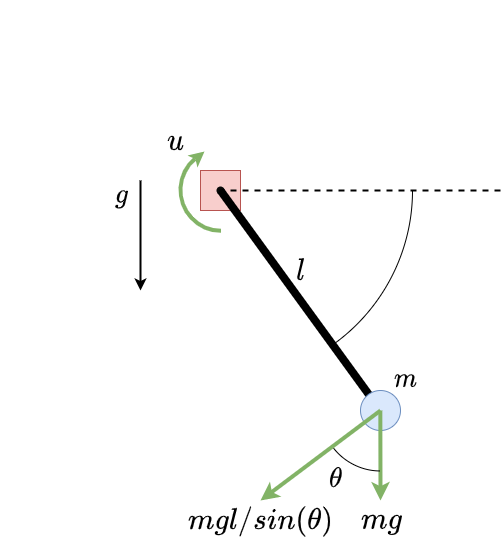
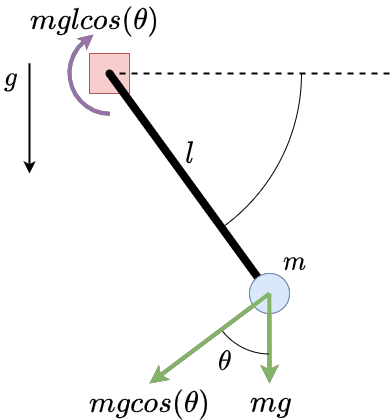
Pendulum simulation now has basic usage, input, and output. Update news

diff --git a/_layouts/canvas.html b/_layouts/canvas.html
@@ -27,6 +27,12 @@
     <script src="https://unpkg.com/mathjs@7.0.0/dist/math.min.js"></script>               <!-- https://mathjs.org/ -->
     <script src="https://unpkg.com/optimization-js@latest/dist/optimization.js"></script> <!-- http://optimization-js.github.io/optimization-js/ -->
     <script type="application/javascript" src= {{ "assets/js/" | relative_url | append: page.script | append: ".js" }}></script>
+    <script>
+      MathJax = {
+        tex: {inlineMath: [['$', '$'], ['\\(', '\\)']]}
+      };
+      </script>
+      <script id="MathJax-script" async src="https://cdn.jsdelivr.net/npm/mathjax@3/es5/tex-chtml.js"></script>
 
   </head>
   
@@ -43,46 +49,70 @@
         <!-- Include Site Content -->
         {{ content }}
 
+        <div class="math_content">
+          <p>
+            Calculate the force acting on the pendulum
+          <p>
+            Derive the equations of motion using Lagrangian mechanics
+          </p>
+          <p>
+            $$ ml^2\ddot{\theta(t)}+mgl\cos(\theta(t)) = -b\dot{\theta}(t) + u(t) $$
+          </p>
+          <p>
+            \begin{align}
+            \dot{x} & = f(x,u) + g(x)*u         \\
+                    & = (u - mgl\cos(\theta))/b \\
+            \end{align}
+          </p>
+          <p>
+
+          </p>
+        </div>
+
         <!-- Simulation Control -->
         <div class="control_input_container">
-
-          <form id="control_input_form" class="control_input_form" onsubmit="return false">
+          <h2>Control Panel</h2>
+          <form id="control_input_form" class="controseany68604/20/2020seany68604/20/2020l_input_form" onsubmit="return false">
             <p class="form_label">Control Input [N-m]</p>
             <table>
               <tr>
                 <th>
-                  <input type="range"  min="-7.5" max="7.5" 
+                  <input type="range"  min="-2.5" max="2.5" 
                            id ="control_slider" class="slider" step="0.1" value="0">
                 </th>
-                <th>
-                  <input type="number" min="-7.5" max="7.5" onclick="this.select();"
+                <th style="text-align: center;">
+                  <input type="number" min="-2.5" max="2.5" onclick="this.select();"
                            id ="control_num" class="num" step="0.1" value="0">
                 </th>
-                <th>
-                  <!--<p style="display:inline;">Run Sim:</p>-->
-                  <input type="checkbox" id="sim_run_check" class="sim_run_check" style="display: inline;">
+                <th style="text-align: center;">
+                  <input type="checkbox" id="sim_run_check" class="sim_run_check">
+                  <label for="sim_run_check">Pause Simulation</label>
                 </th>
               </tr>
             </table>
-            
           </form>
         </div>
 
         <!-- Simulation Container -->
-        <div id="canvas_container">
-          <canvas id= {{ page.canvas }} width="800px" height="500px" style="border: 1px solid grey;">
+        <div id="canvas_container" class="canvas_container">
+          <canvas id="{{ page.canvas }}" class="{{ page.canvas }}" width="500px" height="500px">
             Your browser does not support this simulation.
-            It worked using FireFox 76.0.1 (64-bit) on Ubuntu 18.04.
+            It was developed using FireFox 76.0.1 (64-bit) on Ubuntu 18.04.
           </canvas>
         </div>
-      
+
+        <div class="output_container">
+          <h2>Outputs</h2> 
+          <span><p id="dtheta_output"></p></span>
+          <span><p id="theta_output"></p></span>
+        </div>
+
       </section>
 
     </div>
 
     <script src="{{ "/assets/js/scale.fix.js" | relative_url }}"></script>
     <script src="{{ site.baseurl }}/assets/js/control_slider.js"></script>
-    </script>
 
   </body>
 </html>

diff --git a/assets/js/pend.js b/assets/js/pend.js
@@ -8,8 +8,12 @@
     const gravity = -9.8;
 
     // animation constants
-    const simCenterX = 400;
+    const simCenterX = 250;
     const simCenterY = 250;
+
+    // document elements
+    const dtheta_output = document.getElementById('dtheta_output');
+    const theta_output  = document.getElementById('theta_output');
 
     let sim;
 
@@ -59,7 +63,7 @@
             this.theta  = 0;                // angle of pendulum relative to world
             this.m      = 1;                // mass of pendulum
 
-            this.b      = 10;               // damping ratio of pendulum
+            this.b      = 1;                // damping ratio of pendulum
             this.angVel = 0;                // angular velocity of the the pendulum
             this.dtheta = 0;                // angular velocity of pendulum
             
@@ -135,30 +139,32 @@
 
                 //  Dynamics of a simple pendulum:
                 //  Derive using Lagrangian Mechanics
-                //  m*l^2*ddtheta(t) + m*g*l*sin(theta(t)) = Q
+                //  m*l^2*ddtheta(t) + m*g*l*cos(theta(t)) = Q
                 //  where Q = -b*dtheta(t) + u(t)
                 //  and where theta is measured ccw from 6 o'clock
 
                 //  Consider the case of a constant control input
-                //  m*l^2*ddtheta + b*dtheta + m*g*l*sin(theta) = u
+                //  m*l^2*ddtheta + b*dtheta + m*g*l*cos(theta) = u
 
                 //  The state space realization looks like:
 
                 //  For now, we will assume that b = 0 and u = 0
-                //  ==>     m*l^2*ddtheta + m*g*l*sin(theta) = 0
+                //  ==>     m*l^2*ddtheta + m*g*l*cos(theta) = 0
 
                 //  Solving for ddtheta gives
-                //  ==>     ddtheta = -g/l*sin(theta)
+                //  ==>     ddtheta = -g/l*cos(theta)
                 
                 // ddtheta = dtheta/dt 
                 //  ==>     dtheta = dt * ddtheta 
                 //                 = dt * tau
-                //                 = dt * ( u - g/l*sin(theta) )
+                //                 = dt * ( u - g/l*cos(theta) )
 
-                pend.dtheta = dt * ( u - pend.m*sim.gravity*pend.l*Math.cos(pend.theta) );
+                pend.dtheta += dt * ( u - pend.m*sim.gravity*pend.l*Math.cos(pend.theta) )/pend.b;
 
                 // update position using the ang velocity in this increment
                 pend.theta += dt * pend.dtheta;
+
+                updateOutputs(pend.dtheta,pend.theta);
             }
         }
     }
@@ -199,7 +205,7 @@
     function AnimationFrame() {
 
         // check to see if the user wants to pause the simulation
-        if (document.getElementById("sim_run_check").checked) {
+        if (!document.getElementById("sim_run_check").checked) {
             const dt = (0.001 * FrameDelayMillis) / SimStepsPerFrame;
             for (let i=0; i < SimStepsPerFrame; ++i) {
                 const u = -document.getElementById("control_slider").value;
@@ -209,6 +215,11 @@
             
         };
         window.setTimeout(AnimationFrame, FrameDelayMillis);
+    }
+
+    function updateOutputs(dtheta,theta) {
+        document.getElementById("dtheta_output").innerHTML = `dtheta = ${dtheta.toFixed(3)} rad/s`;
+        document.getElementById("theta_output").innerHTML =  `theta  = ${theta.toFixed(3)} rad`;
     }
 
     window.onload = function() {

diff --git a/_sass/_sim.scss b/_sass/_sim.scss
@@ -5,78 +5,80 @@
 
 */
 
-.control_input_form {
-    width: 30%;
-}
+.control_input_container {
+    th, p {
+        border-bottom: none;
+        margin-bottom: 2px;
+        width: 33%;
+    }
+    input.slider {
+        -webkit-appearance: none;
+        width: 100%;
+        height: 10px;
+        background: #d3d3d3;
+        outline: none;
+        opacity: 0.7;
+        -webkit-transition: .2s;
+        transition: opacity .2s;
+    }
+    input.slider:hover {
+        opacity: 1;
+    }
+    input.slider::-webkit-slider-thumb {
+        -webkit-appearance: none;
+        appearance: none;
+        width: 20px;
+        height: 20px;
+        background: $nav-color;
+        cursor: pointer;
+    }
+    input.slider::-moz-range-thumb {
+        width: 20px;
+        height: 20px;
+        background: $nav-color;
+        cursor: pointer;
+    }
+    input.num {
+        width: 3ex;
+    }
 
-.form_label p {
-    margin-bottom: 2px;
-}
-
-.control_input_container th, .control_input_container p {
-    border-bottom: none;
-    margin-bottom: 2px;
-}
-
-.slider {
+    // remove number input arrows //
+    /* Chrome, Safari, Edge, Opera */
+    input::-webkit-outer-spin-button,
+    input::-webkit-inner-spin-button {
     -webkit-appearance: none;
-    width: 100%;
-    height: 10px;
-    background: #d3d3d3;
-    outline: none;
-    opacity: 0.7;
-    -webkit-transition: .2s;
-    transition: opacity .2s;
-    display: inline;
+    margin: 0;
+    }
+
+    /* Firefox */
+    input[type=number] {
+    -moz-appearance: textfield;
+    }
 }
 
-.slider:hover {
-    opacity: 1;
+// output section
+div.output_container {
+    padding-top: 20px;
+    margin: 0;
+    p {
+        margin-bottom: 0;
+    };
+    h2 {
+        margin-bottom: 5px;
+    }
 }
 
-.slider::-webkit-slider-thumb {
-    -webkit-appearance: none;
-    appearance: none;
-    width: 20px;
-    height: 20px;
-    background: $nav-color;
-    cursor: pointer;
-}
 
-.slider::-moz-range-thumb {
-    width: 20px;
-    height: 20px;
-    background: $nav-color;
-    cursor: pointer;
-}
-
-.num {
-    width: 3ex;
-}
-
-// remove number input arrows //
-/* Chrome, Safari, Edge, Opera */
-input::-webkit-outer-spin-button,
-input::-webkit-inner-spin-button {
-  -webkit-appearance: none;
-  margin: 0;
-}
-
-/* Firefox */
-input[type=number] {
-  -moz-appearance: textfield;
-}
 
 /****************************************/
 /*             CANVAS THEME             */
 /****************************************/
 
-div .canvas_container {
-    width: 800%;
-    height: 100%;
-}
-
-canvas .pend {
-    width: 800%;
-    height: 1000px;
+div.canvas_container {
+    text-align: center;
+    canvas.pend {
+        width: 500px;
+        height: 500px;
+        border: 1px solid gray;
+    }
 }

diff --git a/projects/personal/index.html b/projects/personal/index.html
@@ -8,6 +8,6 @@ title: Personal Projects
 <div class="webprojects">
     <div class="one"><h2>Pendulum Simulation</h2></div>
     <div class="two"><h2>Nothing Here Yet!</h2></div>
-    <div class="three"><a href="/projects/personal/pendulum/"><img src="/assets/img/pend_diagram.png" alt="Pendulum"></a></div>
+    <div class="three"><a href="/projects/personal/pendulum/"><img src="/assets/img/pend_diagram-Diagram.png" alt="Pendulum"></a></div>
     <div class="four"><a href="#">Nothing Yet!</a></div>
 </div>

diff --git a/projects/index.html b/projects/index.html
@@ -4,6 +4,6 @@ title: Projects
 ---
 
 <div style="padding-top:50px;">
-    <p><a style="font-size:large;display:block;text-align:center;font-weight:700;" href="/projects/personal/">Personal</a></p>
     <p><a style="font-size:large;display:block;text-align:center;font-weight:700;" href="/projects/academic/">Academic</a></p>
+    <p><a style="font-size:large;display:block;text-align:center;font-weight:700;" href="/projects/personal/">Personal</a></p>
 </div>
